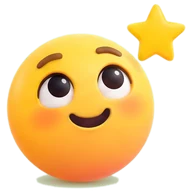
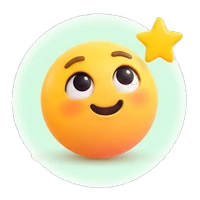
emociones: usar ilustraciones en como estas ahora y registro

diff --git a/frontend/src/components/wy/MoodModal.tsx b/frontend/src/components/wy/MoodModal.tsx
@@ -3,19 +3,27 @@
 import { useState, type CSSProperties } from 'react';
 import Guide58Modal from './Guide58Modal';
 import Icon from './Icon';
+import { useI18n } from '@/components/providers/I18nProvider';
 
-export const MOODS = [
+export const MOODS: Array<{
+  name: string;
+  key: string;
+  emoji: string;
+  image?: string;
+  color: string;
+  soft: string;
+}> = [
   // Las nueve emociones de v58 (emotionConfig), con su emoji y color.
-  { name: 'Alegría', emoji: '😄', color: '#F4B942', soft: '#FFF6D9' },
-  { name: 'Calma', emoji: '😌', color: '#42B8A8', soft: '#E2F7F3' },
-  { name: 'Esperanza', emoji: '🌱', color: '#62B878', soft: '#E8F6EC' },
-  { name: 'Neutral', emoji: '😐', color: '#8B95A7', soft: '#EEF0F4' },
-  { name: 'Tristeza', emoji: '😔', color: '#5B84C4', soft: '#E7EFFB' },
-  { name: 'Ansiedad', emoji: '😟', color: '#8B6CCF', soft: '#F0EAFB' },
-  { name: 'Enojo', emoji: '😠', color: '#E06A5F', soft: '#FCEAE7' },
-  { name: 'Soledad', emoji: '🫥', color: '#6670A8', soft: '#EAECF5' },
-  { name: 'Cansancio', emoji: '😴', color: '#B08B68', soft: '#F5EEE7' },
-] as const;
+  { name: 'Alegría', key: 'alegria', emoji: '😄', image: '/assets/moods/alegria.webp', color: '#F4B942', soft: '#FFF6D9' },
+  { name: 'Calma', key: 'calma', image: '/assets/moods/calma.webp', emoji: '😌', color: '#42B8A8', soft: '#E2F7F3' },
+  { name: 'Esperanza', key: 'esperanza', emoji: '🌱', image: '/assets/moods/esperanza.webp', color: '#62B878', soft: '#E8F6EC' },
+  { name: 'Neutral', key: 'neutral', emoji: '😐', color: '#8B95A7', soft: '#EEF0F4' },
+  { name: 'Tristeza', key: 'tristeza', emoji: '😔', image: '/assets/moods/tristeza.webp', color: '#5B84C4', soft: '#E7EFFB' },
+  { name: 'Ansiedad', key: 'ansiedad', emoji: '😟', color: '#8B6CCF', soft: '#F0EAFB' },
+  { name: 'Enojo', key: 'enojo', emoji: '😠', image: '/assets/moods/enojo.webp', color: '#E06A5F', soft: '#FCEAE7' },
+  { name: 'Soledad', key: 'soledad', emoji: '🫥', color: '#6670A8', soft: '#EAECF5' },
+  { name: 'Cansancio', key: 'cansancio', emoji: '😴', image: '/assets/moods/cansancio.webp', color: '#B08B68', soft: '#F5EEE7' },
+];
 
 export const MOOD_EMOJI: Record<string, string> = MOODS.reduce(
   (map, mood) => ({ ...map, [mood.name]: mood.emoji }),
@@ -57,6 +65,7 @@ export default function MoodModal({
   onSave,
   onClose,
 }: MoodModalProps) {
+  const { t } = useI18n();
   const editing = mode === 'edit';
   const [guideOpen, setGuideOpen] = useState(false);
 
@@ -96,8 +105,13 @@ export default function MoodModal({
             style={{ '--mood': mood.color, '--mood-soft': mood.soft } as CSSProperties}
             onClick={() => onChangeName(mood.name)}
           >
-            <span>{mood.emoji}</span>
-            <small>{mood.name}</small>
+            {mood.image ? (
+              // eslint-disable-next-line @next/next/no-img-element
+              <img className="mood-illustration" src={mood.image} alt="" width={34} height={34} />
+            ) : (
+              <span>{mood.emoji}</span>
+            )}
+            <small>{t(`mood.${mood.key}`)}</small>
           </button>
         ))}
       </div>

diff --git a/frontend/src/app/feed/page.tsx b/frontend/src/app/feed/page.tsx
@@ -48,11 +48,14 @@ function initialsOf(name?: string | null) {
 }
 
 // Accesos rápidos de «¿Cómo estás ahora?» con ilustraciones propias (public/assets/moods).
+// Accesos rápidos de «¿Cómo estás ahora?» con ilustraciones propias (public/assets/moods).
 const QUICK_MOODS = [
-  { key: 'alegria', name: 'Alegría', emoji: '\u{1F604}', color: '#F4B942' },
-  { key: 'calma', name: 'Calma', emoji: '\u{1F60C}', color: '#42B8A8' },
-  { key: 'tristeza', name: 'Tristeza', emoji: '\u{1F614}', color: '#5B84C4' },
-  { key: 'ansiedad', name: 'Ansiedad', emoji: '\u{1F61F}', color: '#8B6CCF' },
+  { key: 'alegria', name: 'Alegría', image: '/assets/moods/alegria.webp', color: '#F4B942' },
+  { key: 'calma', name: 'Calma', image: '/assets/moods/calma.webp', color: '#42B8A8' },
+  { key: 'tristeza', name: 'Tristeza', image: '/assets/moods/tristeza.webp', color: '#5B84C4' },
+  { key: 'enojo', name: 'Enojo', image: '/assets/moods/enojo.webp', color: '#E06A5F' },
+  { key: 'cansancio', name: 'Cansancio', image: '/assets/moods/cansancio.webp', color: '#B08B68' },
+  { key: 'esperanza', name: 'Esperanza', image: '/assets/moods/esperanza.webp', color: '#62B878' },
 ] as const;
 
 function relativeTime(value: string): string {
@@ -729,7 +732,7 @@ export default function FeedPage() {
                 {t('feed.quickMood.register')}
               </button>
             </div>
-            <div className="mood-choices mood-choices-v2">
+            <div className="mood-choices mood-choices-v2 mood-choices-illustrated">
               {QUICK_MOODS.map((mood) => (
                 <button
                   key={mood.name}
@@ -738,14 +741,11 @@ export default function FeedPage() {
                   style={{ '--mood': mood.color } as CSSProperties}
                   onClick={() => openMood(mood.name)}
                 >
-                  <span>{mood.emoji}</span>
+                  {/* eslint-disable-next-line @next/next/no-img-element */}
+                  <img className="mood-illustration" src={mood.image} alt="" width={40} height={40} />
                   <small>{t(`mood.${mood.key}`)}</small>
                 </button>
               ))}
-              <button className="mood-choice more-emotions" type="button" onClick={() => openMood()}>
-                <span>＋</span>
-                <small>{t('feed.quickMood.more')}</small>
-              </button>
             </div>
           </section>
         ) : moodRegisteredToday === true ? (

diff --git a/frontend/src/app/withyouly-e2e-fixes.css b/frontend/src/app/withyouly-e2e-fixes.css
@@ -164,3 +164,8 @@
 .wy .right-rail::-webkit-scrollbar{width:0;height:0;display:none}
 .wy .app-shell .right-rail{scrollbar-width:none!important;-ms-overflow-style:none}
 .wy .app-shell .right-rail::-webkit-scrollbar{width:0!important;height:0!important;display:none!important}
+.wy .mood-pick .mood-illustration{display:block;width:34px;height:34px;margin:0 auto 2px;object-fit:contain}
+.wy .mood-picker-nine .mood-pick{min-height:88px;display:flex;flex-direction:column;align-items:center;justify-content:center;gap:4px}
+.wy .mood-pick .mood-illustration{width:38px;height:38px}
+.wy .mood-modal .guide-btn{white-space:nowrap;flex:0 0 auto;min-height:40px}
+.wy .mood-modal .modal-head-actions{flex:0 0 auto;gap:6px}

diff --git a/frontend/src/lib/i18n/messages.ts b/frontend/src/lib/i18n/messages.ts
@@ -165,6 +165,7 @@ const es: Messages = {
   'mood.esperanza': 'Esperanza',
   'mood.enojo': 'Enojo',
   'mood.cansancio': 'Cansancio',
+  'mood.soledad': 'Soledad',
 
   'mood.modal.title': '¿Cómo te sientes?',
   'mood.modal.copy': 'Un registro rápido y privado. Puedes hacerlo una vez o varias veces al día.',
@@ -440,6 +441,7 @@ const en: Messages = {
   'mood.esperanza': 'Hope',
   'mood.enojo': 'Anger',
   'mood.cansancio': 'Tiredness',
+  'mood.soledad': 'Loneliness',
 
   'mood.modal.title': 'How do you feel?',
   'mood.modal.copy': 'A quick, private log. You can do it once or several times a day.',
